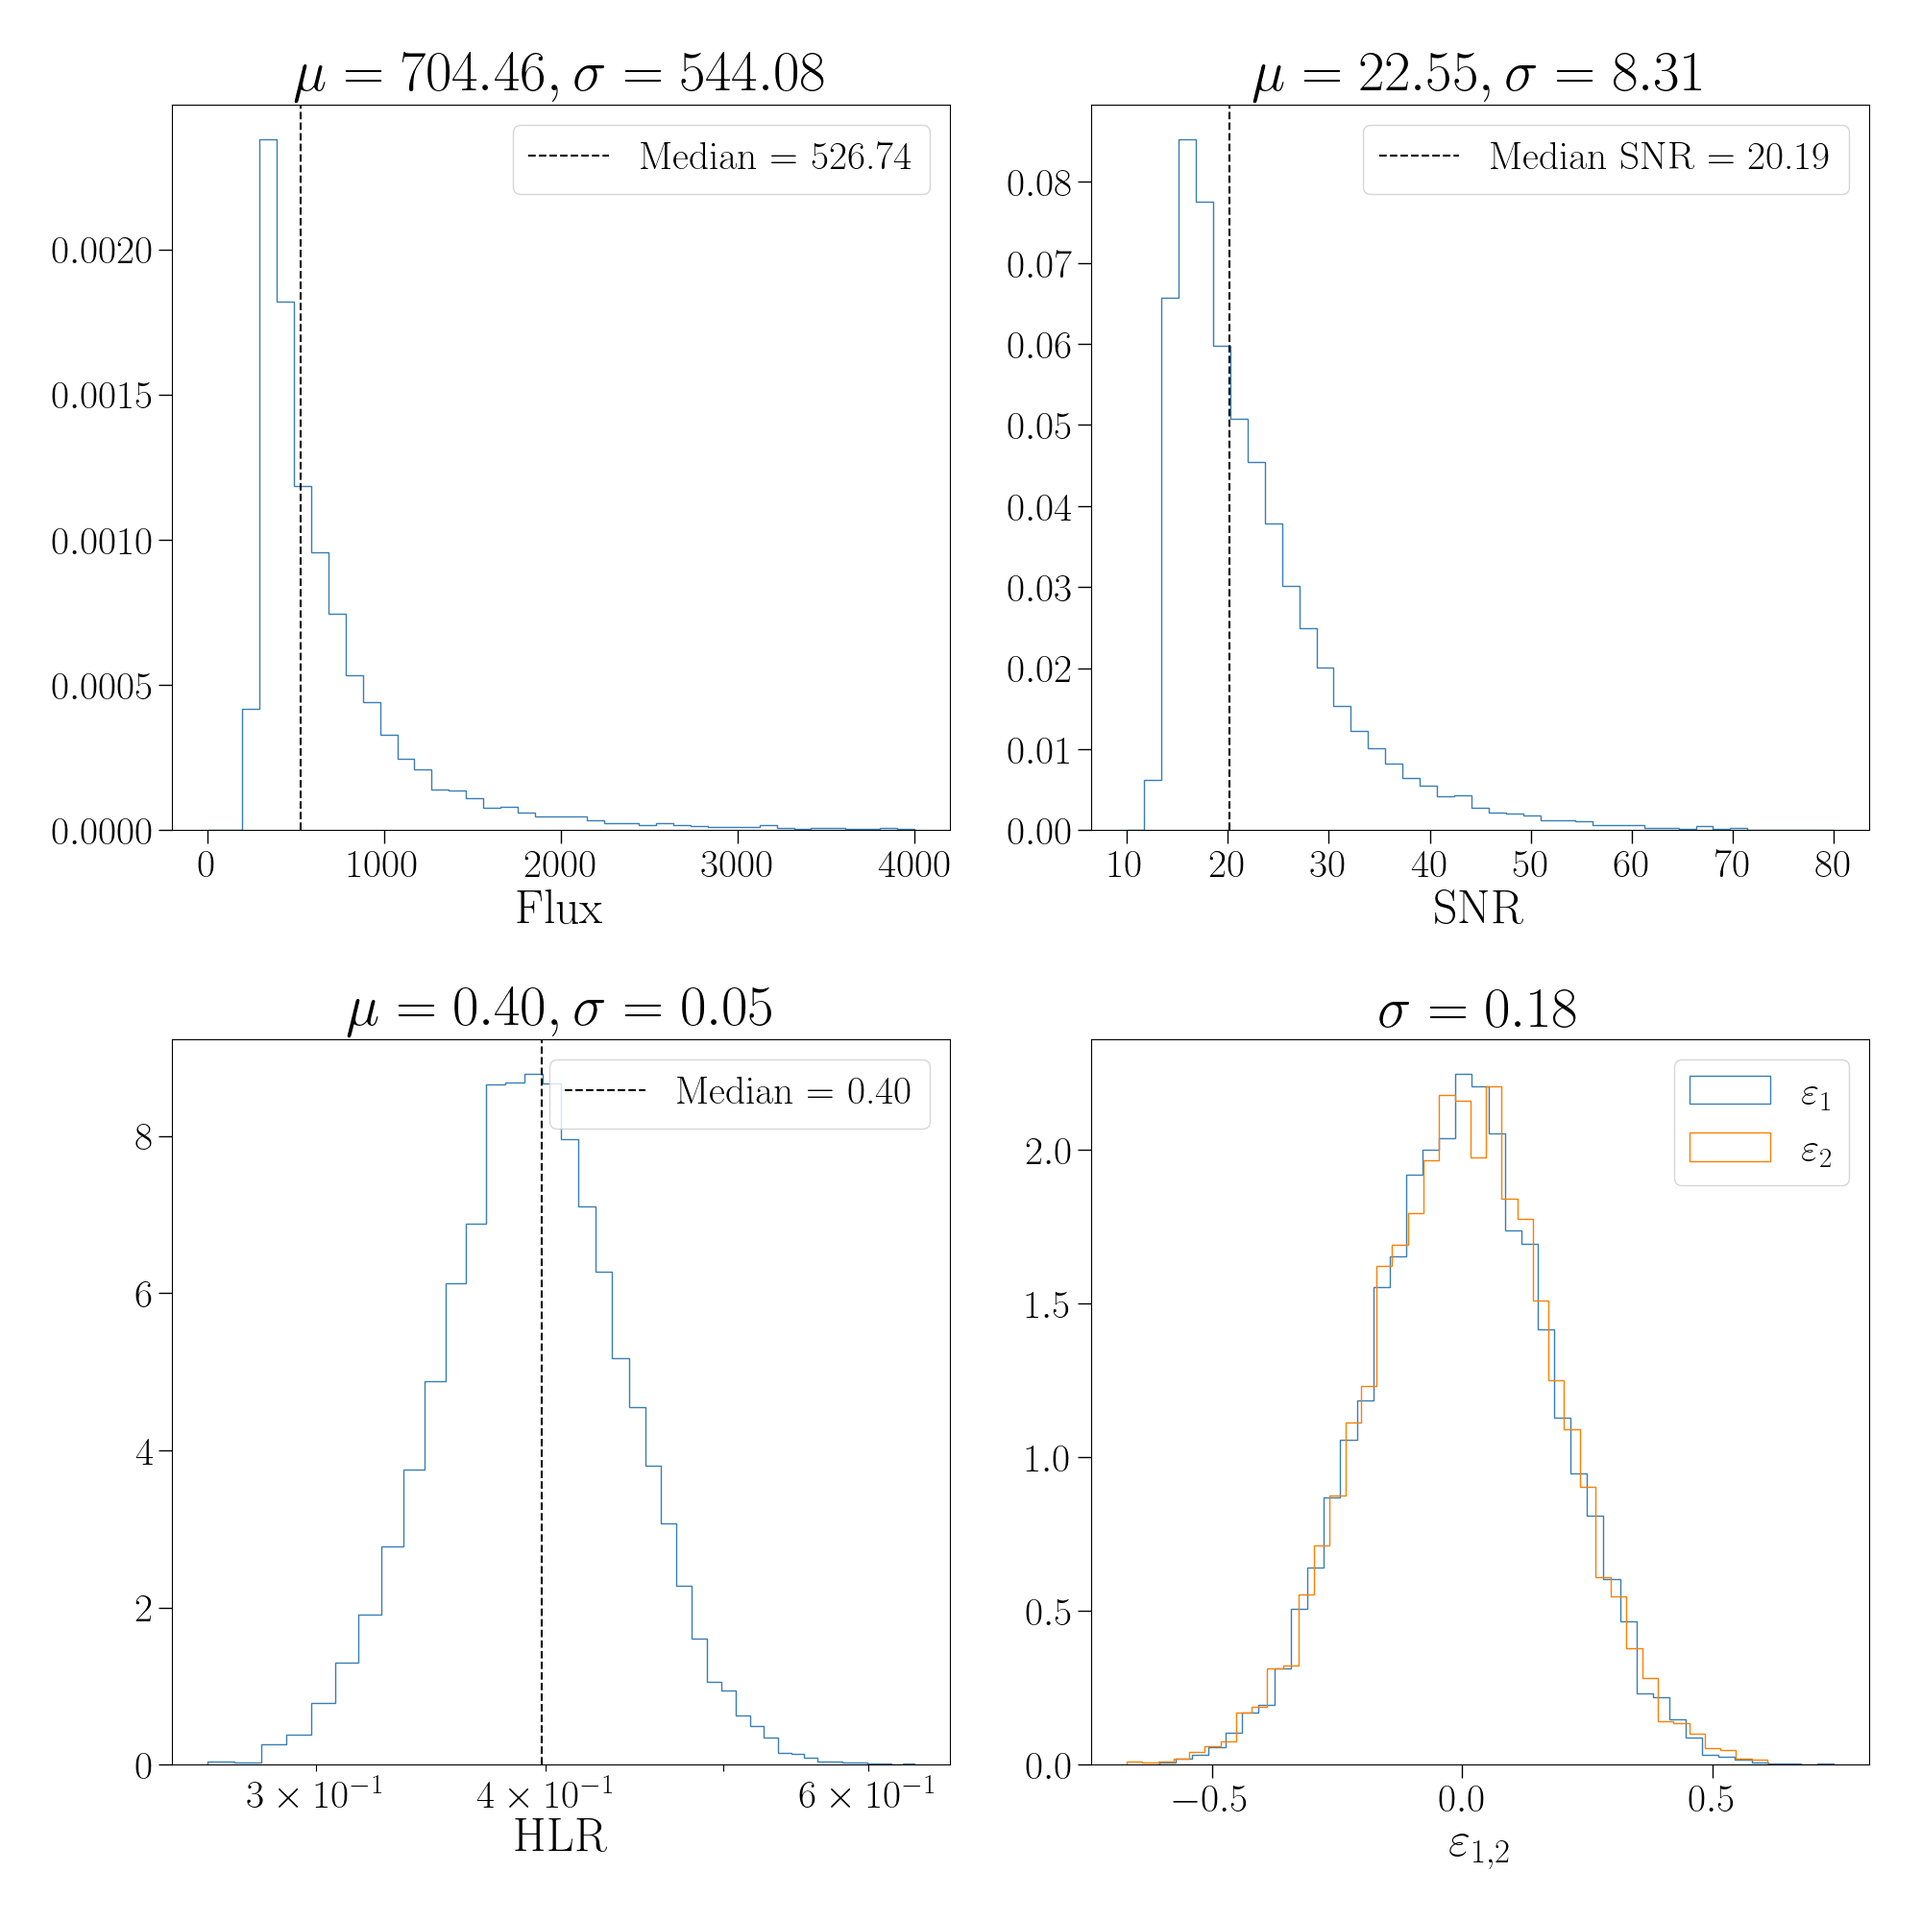
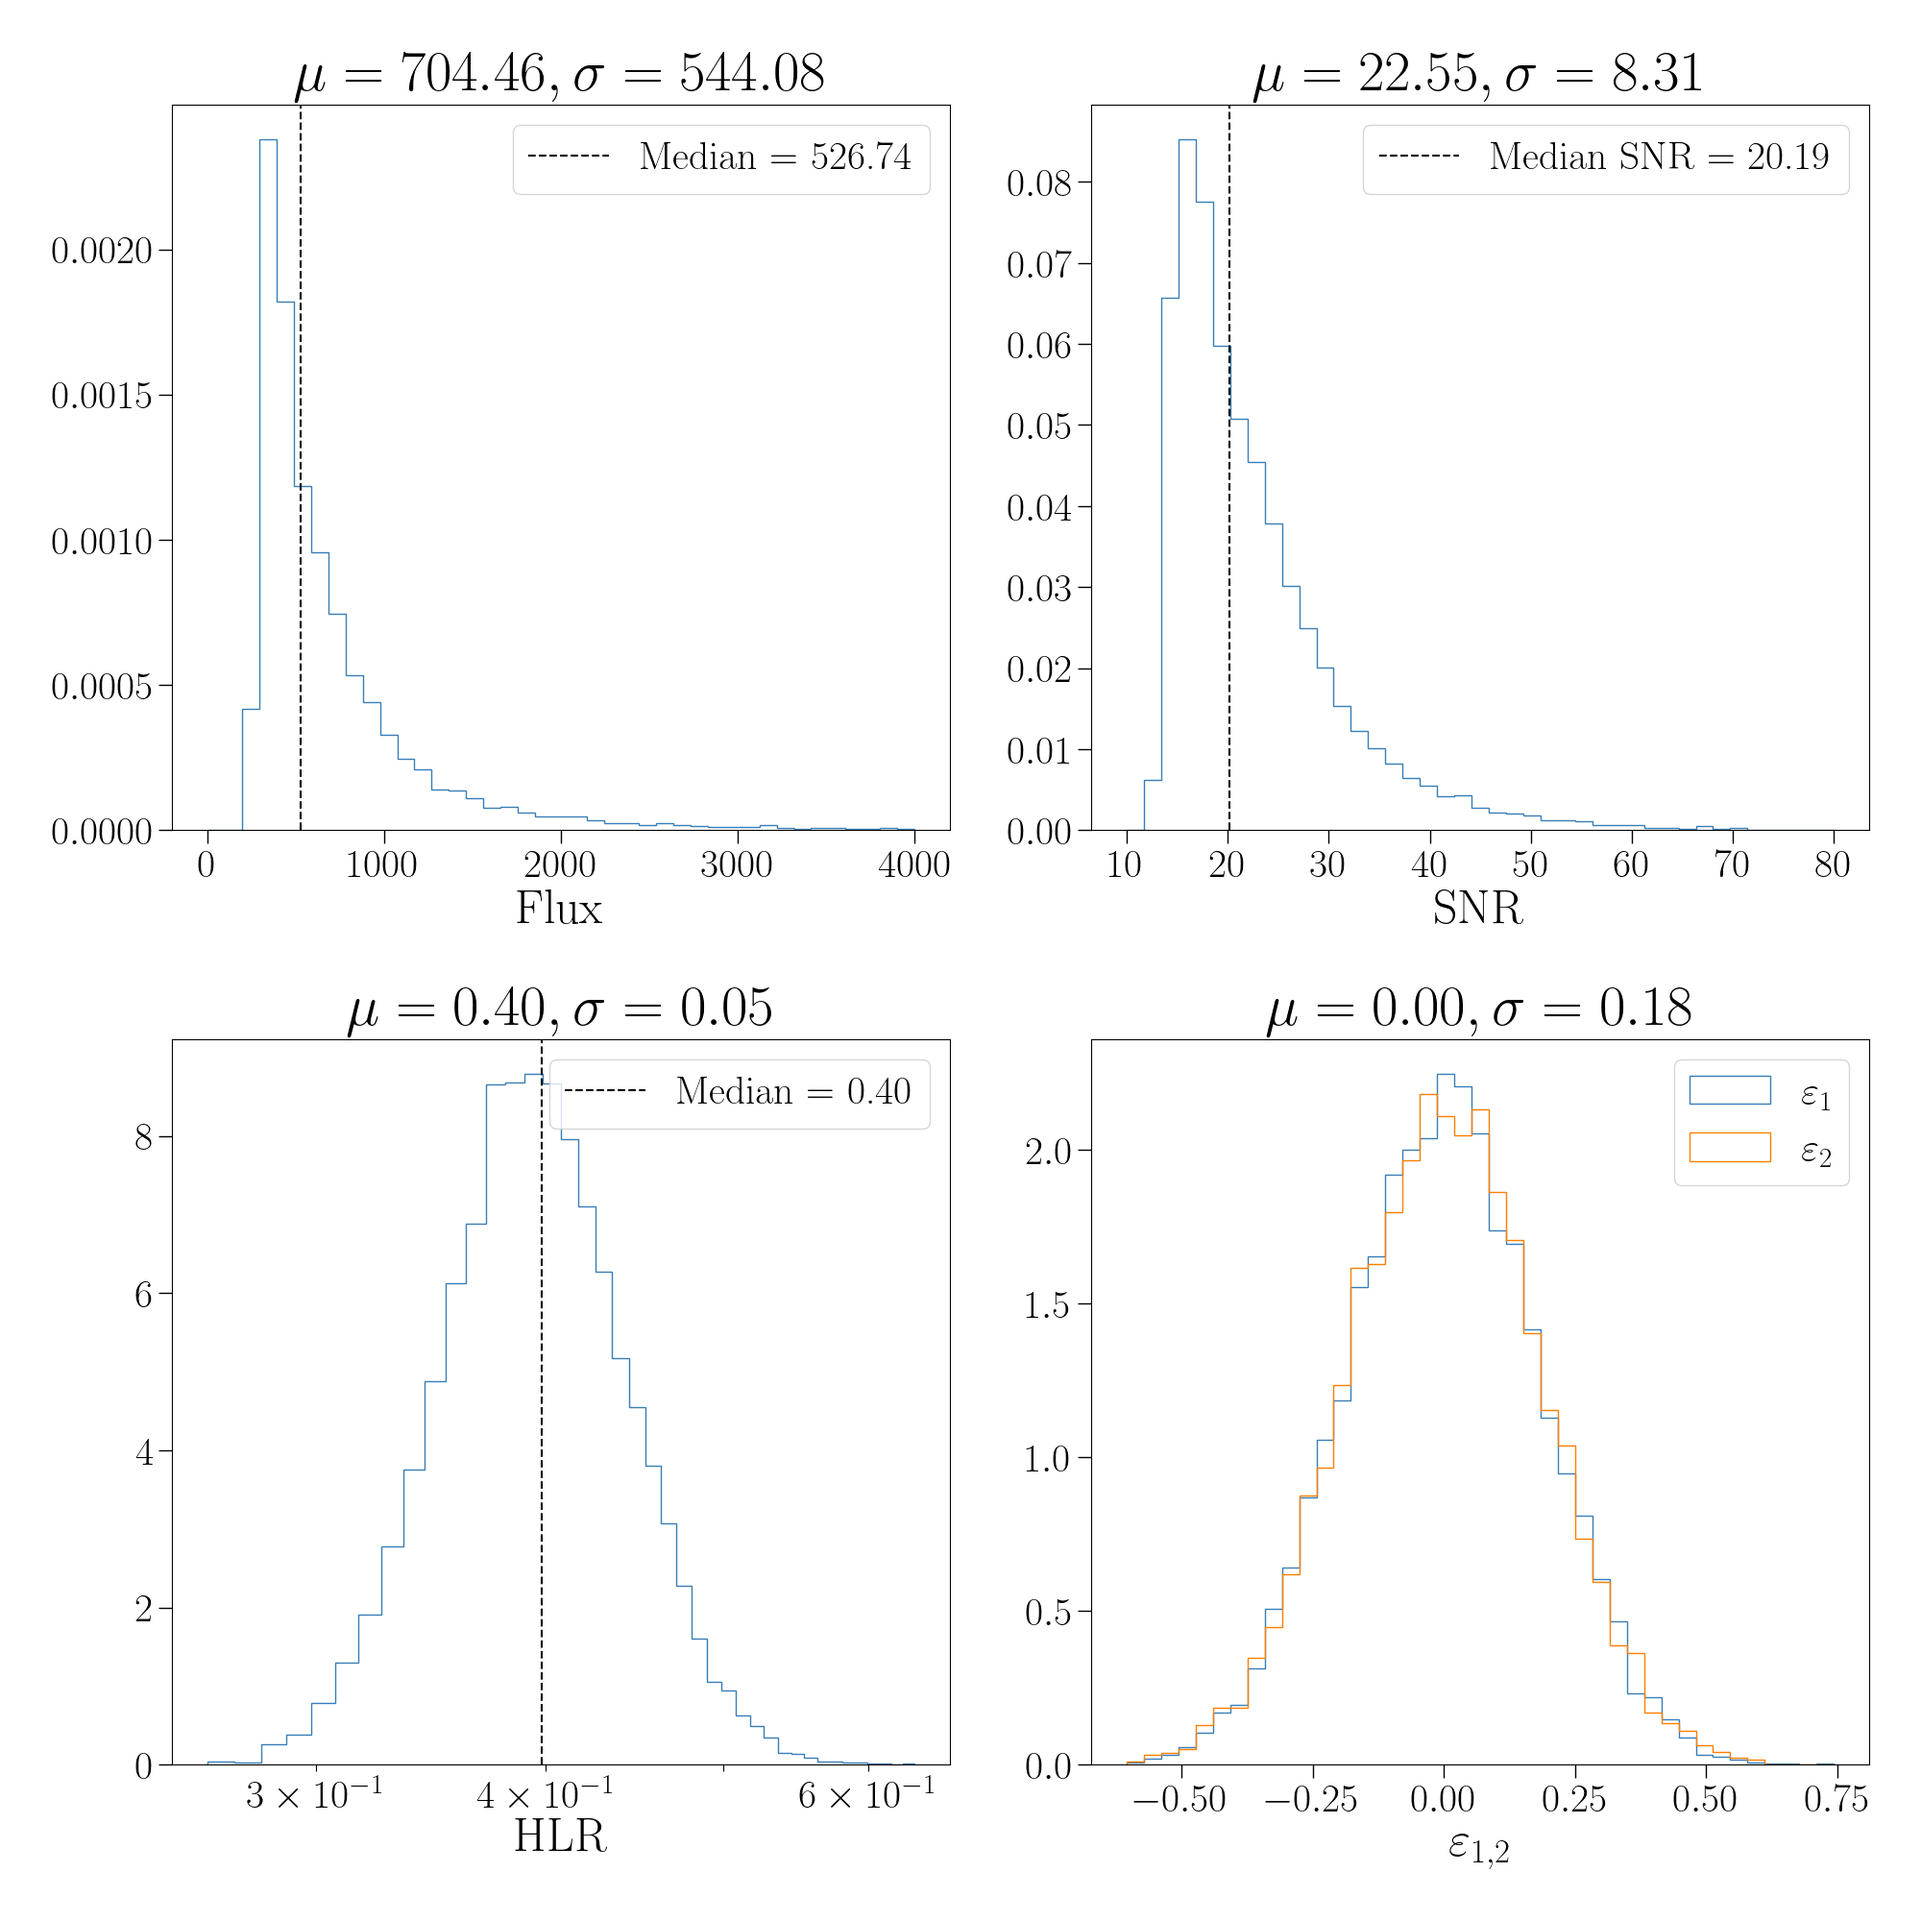
fixes

diff --git a/scripts/get_paper_figures.py b/scripts/get_paper_figures.py
@@ -27,8 +27,6 @@ from bpd.plotting import (
 from bpd.sample import sample_galaxy_params_skew
 from bpd.utils import DEFAULT_HYPERPARAMS, get_snr
 
-set_rc_params()
-
 FIG_DIR = HOME_DIR / "paper"
 CHAIN_DIR = DATA_DIR / "cache_chains"
 
@@ -60,7 +58,7 @@ OUT_PATHS = {
 
 
 def make_distribution_figure(fpath: str | Path, overwrite: bool = False):
-    set_rc_params(fontsize=40)
+    set_rc_params(fontsize=36, legend_fontsize=30)
     cache_fpath = HOME_DIR / "paper" / "gprop_cache.npz"
 
     if Path(cache_fpath).exists() and not overwrite:
@@ -163,11 +161,11 @@ def make_distribution_figure(fpath: str | Path, overwrite: bool = False):
             np.mean(params["hlr"]), np.std(params["hlr"])
         )
     )
-    ax3.legend()
     ax3.set_xscale("log")
+    ax3.legend()
 
     # e1, e2 overlaid
-    ax4.hist(
+    _, bins, _ = ax4.hist(
         params["e1"],
         bins=41,
         histtype="step",
@@ -177,20 +175,22 @@ def make_distribution_figure(fpath: str | Path, overwrite: bool = False):
     )
     ax4.hist(
         params["e2"],
-        bins=41,
+        bins=bins,
         histtype="step",
         density=True,
         label=r"$\varepsilon_{2}$",
         color="C1",
     )
     ax4.set_xlabel(r"$\varepsilon_{1, 2}$")
-    ax4.set_title(r"$\sigma = {:.2f}$".format(np.std(params["e1"])))
+    mu = np.mean(params["e1"])
+    if abs(mu) < 1e-2:
+        mu = 0.00
+    ax4.set_title(r"$\mu= {:.2f}, \sigma = {:.2f}$".format(mu, np.std(params["e1"])))
     ax4.legend()
 
     fig.tight_layout()
     fig.savefig(fpath, format="png")
     plt.close(fig)
-    set_rc_params()
 
 
 def make_timing_figure(fpath: str | Path):
@@ -201,10 +201,9 @@ def make_timing_figure(fpath: str | Path):
     fig.savefig(fpath, format="png")
     plt.close(fig)
 
-    set_rc_params()  # reset to default fontsize
-
 
 def make_contour_shear_figure(fpath: str | Path):
+    set_rc_params()  # reset to default fontsize
     g_exp72 = np.load(INPUT_PATHS["exp72_sp"])
     samples_exp73 = load_dataset(INPUT_PATHS["exp73_sp"])
     g_exp73 = jnp.stack(
@@ -260,6 +259,7 @@ def make_contour_shear_figure(fpath: str | Path):
 
 
 def make_contour_hyper_figure(fpath: str | Path):
+    set_rc_params()
     ds = load_dataset(INPUT_PATHS["exp73_sp"])
     samples = ds["samples"]
     truth = ds["truth"]
